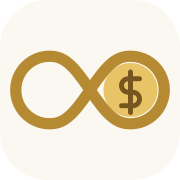
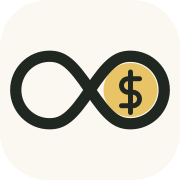
Restore dark Howloop lettering with a yellow coin (#43)

Changed region(s): [[0.0556, 0.2778, 0.9444, 0.7222]]

diff --git a/public/trade/index.html b/public/trade/index.html
@@ -6,7 +6,7 @@
   <meta name="robots" content="noindex, nofollow">
   <meta name="description" content="Howloop 하드웨어 상품 소싱, 마진 계산, 등록 초안과 샘플 주문 작업 공간.">
   <title>Trade desk | Howloop</title>
-  <link rel="icon" href="/favicon-gold-v2.svg?v=howloop-gold-v2" type="image/svg+xml">
+  <link rel="icon" href="/favicon-coin-v3.svg?v=howloop-coin-v3" type="image/svg+xml">
   <link rel="stylesheet" href="/trade/style.css">
   <script type="module" src="/trade/app.js"></script>
 </head>
